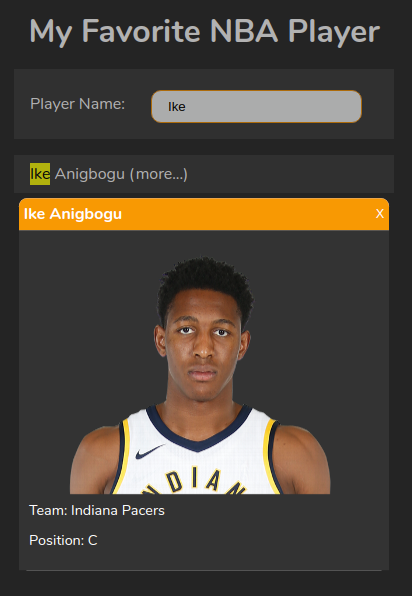
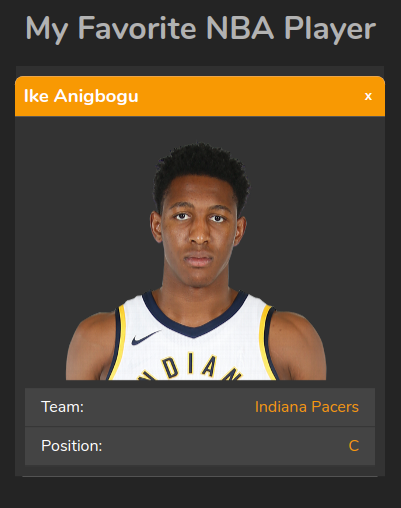
Warnings removed

diff --git a/src/components/Modal.tsx b/src/components/Modal.tsx
@@ -1,4 +1,4 @@
-import React, { FunctionComponent, useEffect} from 'react';
+import React, {FunctionComponent, useCallback, useEffect} from 'react';
 import ReactDOM from 'react-dom';
 import {
     Wrapper,
@@ -9,24 +9,21 @@ import {
     Content,
     Backdrop,
 } from './Modal.style';
+
 export interface ModalProps {
     isShown: boolean;
     hide: () => void;
     modalContent: JSX.Element;
     headerText: string;
 }
-export const Modal: FunctionComponent<ModalProps> = ({
-                                                         isShown,
-                                                         hide,
-                                                         modalContent,
-                                                         headerText,
-                                                     }) => {
 
-    const onKeyDown = (event: KeyboardEvent) => {
+export const Modal: FunctionComponent<ModalProps> = ({isShown, hide, modalContent, headerText}) => {
+
+    const onKeyDown = useCallback((event: KeyboardEvent) => {
         if (event.keyCode === 27 && isShown) {
             hide();
         }
-    };
+    }, [hide, isShown]);
 
     useEffect(() => {
         isShown
@@ -36,11 +33,11 @@ export const Modal: FunctionComponent<ModalProps> = ({
         return () => {
             document.removeEventListener("keydown", onKeyDown, false);
         };
-    }, [isShown]);
+    }, [isShown, onKeyDown]);
 
     const modal = (
         <React.Fragment>
-            <Backdrop onClick={hide} />
+            <Backdrop onClick={hide}/>
             <Wrapper aria-modal aria-labelledby={headerText} tabIndex={-1} role="dialog">
                 <StyledModal>
                     <Header>

diff --git a/src/components/Modal.style.tsx b/src/components/Modal.style.tsx
@@ -1,4 +1,5 @@
 import styled from 'styled-components';
+
 export const Wrapper = styled.div`
   position: fixed;
   top: 50%;
@@ -8,6 +9,7 @@ export const Wrapper = styled.div`
   width: inherit;
   outline: 0;
 `;
+
 export const Backdrop = styled.div`
   position: fixed;
   width: 100%;
@@ -17,6 +19,7 @@ export const Backdrop = styled.div`
   background: rgba(0, 0, 0, 0.3);
   z-index: 500;
 `;
+
 export const StyledModal = styled.div`
   z-index: 100;
   background: white;
@@ -24,6 +27,7 @@ export const StyledModal = styled.div`
   margin: auto;
   border-radius: 8px;
 `;
+
 export const Header = styled.div`
   border-radius: 8px 8px 0 0;
   display: flex;
@@ -31,6 +35,7 @@ export const Header = styled.div`
   padding: 0.3rem;
   background-color: #ff9900;
 `;
+
 export const HeaderText = styled.div`
   color: #fff;
   align-self: center;
@@ -38,6 +43,7 @@ export const HeaderText = styled.div`
   padding: 2px 4px;
   font-size: 14pt;
 `;
+
 export const CloseButton = styled.button`
   font-weight: bold;
   border: none;

diff --git a/src/App.tsx b/src/App.tsx
@@ -1,5 +1,4 @@
-import React, {useState} from 'react'
-import {useEffect} from 'react'
+import React, { useState, useCallback,  useEffect} from 'react'
 import PlayerDataBlock from './components/PlayerListItem'
 import SearchForm from './components/SearchForm'
 import {Modal} from './components/Modal';
@@ -29,7 +28,7 @@ const App: React.FC = () => {
 
     const [foundPlayersData, setFoundPlayersData] = useState<PlayerData[]>([]);
 
-    const getOptions = (): void => {
+    const getOptions = useCallback((): void => {
         getPlayers()
             .then(({status, data}) => {
                 if (status !== 200) {
@@ -41,11 +40,11 @@ const App: React.FC = () => {
                 }
             })
             .catch((err) => console.log(err))
-    };
+    }, [query.length]);
 
     useEffect(() => {
         getOptions()
-    }, []);
+    }, [getOptions]);
 
     const handleQuery = (e: React.FormEvent, formData: FormData): void => {
 

diff --git a/src/components/PlayerListItem.tsx b/src/components/PlayerListItem.tsx
@@ -9,13 +9,10 @@ const Data: React.FC<Props> = ({data, onClick, highlight}) => {
       return (<div/>);
   return (
     <Card>
-      <CardText>
-          <a onClick={onClick}>
-              <Highlight highlight={highlight}>{data.first_name}</Highlight>&nbsp;
-              <Highlight highlight={highlight}>{data.last_name}</Highlight>
-          </a>&nbsp;
-          <a onClick={onClick}>(more...)</a>
-      </CardText>
+      <CardText onClick={onClick}>
+          <Highlight highlight={highlight}>{data.first_name}</Highlight>&nbsp;
+          <Highlight highlight={highlight}>{data.last_name}</Highlight>
+      </CardText>&nbsp;<CardText onClick={onClick}>(more...)</CardText>
     </Card>
   )
 };

diff --git a/src/components/SearchForm.tsx b/src/components/SearchForm.tsx
@@ -6,6 +6,7 @@ type Props = {
 }
 
 const SearchForm: React.FC<Props> = ({getPlayerResult}) => {
+
     const [formData, setFormData] = useState<PlayerData | {}>();
 
     const handleForm = (e: React.FormEvent<HTMLInputElement>): void => {
@@ -23,7 +24,6 @@ const SearchForm: React.FC<Props> = ({getPlayerResult}) => {
         <Form onSubmit={(e) => getPlayerResult(e, formData)}>
             <Label htmlFor='name'>Player Name:</Label>
             <Input onChange={handleForm} type='text' id='name' onKeyDown={handleForm}/>
-            {/*<Button disabled={formData === undefined}>Search</Button>*/}
         </Form>
     )
 };

diff --git a/src/components/PlayerDataModal.tsx b/src/components/PlayerDataModal.tsx
@@ -4,6 +4,7 @@ import Loader from './Loader'
 import axios from 'axios'
 
 export const PlayerDataModal: FunctionComponent<PlayerDataModalProps> = (props) => {
+
     const placeholder = "noimage350x254.png";
     const src = "https://nba-players.herokuapp.com/players/" + props.data.last_name + "/" + props.data.first_name;
 
@@ -31,7 +32,7 @@ export const PlayerDataModal: FunctionComponent<PlayerDataModalProps> = (props) 
                 cacheImages(s).then(() => setPlayerPhoto({src: s, loading: false}));
             });
 
-    }, []);
+    }, [src]);
 
     const imgBlock = playerPhoto.loading
         ? (<Loader/>)

diff --git a/src/components/SearchForm.style.tsx b/src/components/SearchForm.style.tsx
@@ -1,11 +1,5 @@
 import styled from 'styled-components';
 
-export const FormWrapper = styled.div`
-    display: flex;
-    justify-content: center;
-    align-items: center;
-`;
-
 export const Form = styled.form`
     display: flex;
     justify-content: space-between;
@@ -25,14 +19,4 @@ export const Input = styled.input`
 `;
 
 export const Label = styled.label`
-`;
-
-export const Button = styled.button`
-    background: #ff9900;
-    color: #fff;
-    padding: 0.5rem 1rem;
-    border-radius: 20px;
-    cursor: pointer;
-    border: none;
-    margin-top: 4px;
 `;

diff --git a/src/API.ts b/src/API.ts
@@ -6,10 +6,9 @@ const baseUrl: string = 'https://www.balldontlie.io/api/v1';
 
 export const getPlayers = async (): Promise<AxiosResponse<AllPlayerData>> => {
     try {
-        const result: AxiosResponse<AllPlayerData> = await axios.get(
+        return await axios.get(
             baseUrl + '/players/'
         );
-        return result;
     } catch (error) {
         throw new Error(error)
     }

diff --git a/src/components/Highlight.tsx b/src/components/Highlight.tsx
@@ -1,4 +1,4 @@
-import React, { FunctionComponent } from 'react';
+import React, {FunctionComponent} from 'react';
 
 type Props = {
     highlight: string
@@ -24,7 +24,7 @@ export const Highlight: FunctionComponent<Props> = ({children, highlight}) => {
 
     return (
         <React.Fragment>
-            { children }
+            {children}
         </React.Fragment>
     )
 };

diff --git a/src/components/PlayerListItem.style.tsx b/src/components/PlayerListItem.style.tsx
@@ -9,6 +9,7 @@ export const Card = styled.div`
     border-bottom: 1px solid #333333;
 `;
 
-export const CardText = styled.div`
+export const CardText = styled.span`
     color: #ff9900;
+    cursor: pointer;
 `;

diff --git a/src/index.css b/src/index.css
@@ -14,7 +14,7 @@ body {
     background: #333;
 }
 
-a {
+button {
     cursor: pointer;
 }
 

diff --git a/README.md b/README.md
@@ -1,5 +1,5 @@
 ![alt text](https://github.com/vslovik/nba-players-toy-app/blob/master/screen.png?raw=true)
-
+![alt text](https://github.com/vslovik/nba-players-toy-app/blob/master/screen_search.png?raw=true)
 ### Toy React - Redux - Typescript Application
 ### "My NBA Players"
 
